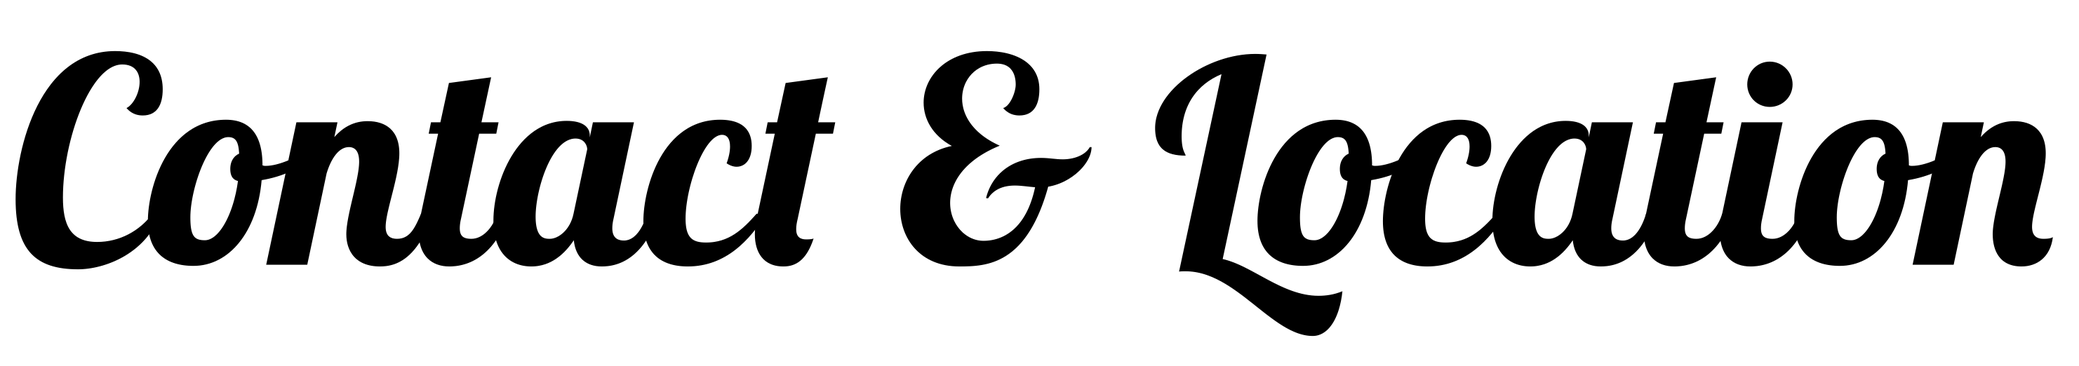
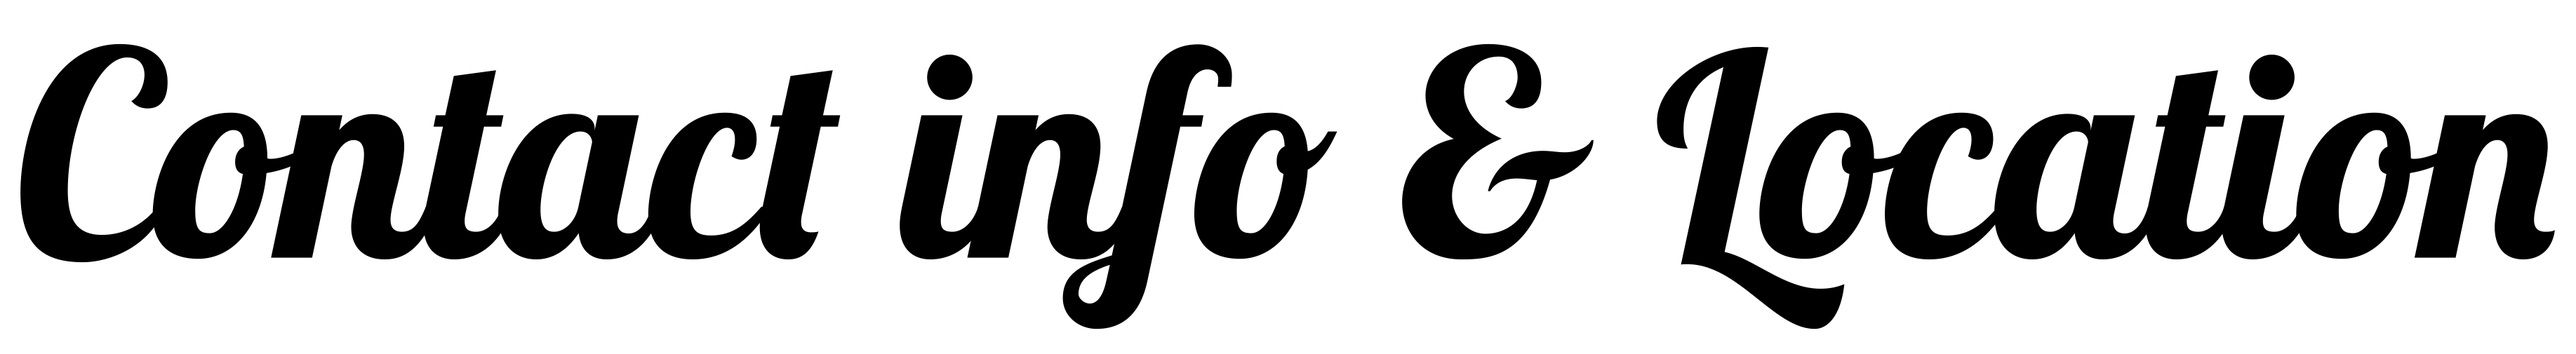
fixed bicycle animation

Changed region(s): [[0.0, 0.1188, 0.9936, 0.9208]]

diff --git a/app/assets/stylesheets/home.scss b/app/assets/stylesheets/home.scss
@@ -17,19 +17,6 @@ $d: $t / 121;
    background-size: cover;
 }
 
-@mixin shopPanelGradient {
-   /* For browsers that do not support gradients */
-   background: hsl(24, 99%, 52%);
-   /* For Safari 5.1 to 6.0 */
-   background: -webkit-linear-gradient(hsl(24, 99%, 40%), hsl(24, 99%, 46%), hsl(24, 99%, 52%));
-   /* For Opera 11.1 to 12.0 */
-   background: -o-linear-gradient(hsl(24, 99%, 40%), hsl(24, 99%, 46%), hsl(24, 99%, 52%));
-   /* For Firefox 3.6 to 15 */
-   background: -moz-linear-gradient(hsl(24, 99%, 40%), hsl(24, 99%, 46%), hsl(24, 99%, 52%));
-   /* Standard syntax */
-   background: linear-gradient(hsl(24, 99%, 40%), hsl(24, 99%, 46%), hsl(24, 99%, 52%));
-}
-
 body,
 html {
    background: black;
@@ -105,38 +92,20 @@ html {
 }
 
 
-.affix {
-   top: 0;
-   width: 100%;
-}
-
-//makes the transition smoother
-.affix+.container-fluid {
-   padding-top: 60px;
-}
-#shopPanel, #userPanel {
-   @include shopPanelGradient;
-   border: solid 1px hsl(240, 6%, 30%);
-   border-top: solid 2px orange;
-   box-shadow: 0px 8px 16px 0px rgba(0, 0, 0, 0.4), inset 0 10px 15px -8px orange;
-   li a {
-       color: white;
-   }
-   .dropdown-header {
-       color: hsl(24, 99%, 20%);
-   }
-   .divider {
-       background-color: hsl(24, 98%, 40%);
-   }
-}
 .Header {
    width: 60%;
    position: relative;
    left: 20%;
 }
-
+.locationHeader {
+  width: 30%;
+  position: relative;
+  left: 35%;
+}
 .headerContain {
    margin: 0;
+   padding: 0;
+   width: 100%;
    background-color: rgb(252, 252, 252);
 }
 
@@ -145,6 +114,7 @@ html {
    font-family: 'Buenard', serif;
    font-size: 20px;
    width: 100%;
+   padding: 0;
    text-align: center;
 
    margin-bottom: 5%;
@@ -158,6 +128,7 @@ html {
 
 .customer {
    position: relative;
+   margin: 0;
    height: 180px;
    right: 10%;
 }
@@ -213,5 +184,48 @@ html {
    padding-bottom: 50px;
    width: 100%;
    height: 500px;
+   border: 1px solid;
+}
+.addressHeader{
+  position: relative;
+  left: 40%;
+  width: 22%;
+  margin-top: 30px;
+  margin-bottom: 10px;
+}
+.contactHeader {
+  position: relative;
+  left: 40%;
+  width: 20%;
+  margin-top: 50px;
+  margin-bottom: 10px;
+}
+.address {
+  width: 80%;
+  margin: auto;
+ p{
 
+  font-size: 22px;
+  font-family: 'Signika Negative', sans-serif;
+}
+}
+#phone, #email{
+   font-size: 22px;
+   font-family: 'Signika Negative', sans-serif;
+}
+#email {
+  padding-bottom: 30px;
+}
+#line {
+  border-bottom: 1px solid;
+  width: 35%;
+  margin: auto;
+}
+.mechanicInfo{
+  width: 90%;
+  margin: auto;
+  div p {
+    font-family: 'Buenard', serif;
+    font-size: 20px;
+  }
 }

diff --git a/app/assets/javascripts/home.js b/app/assets/javascripts/home.js
@@ -8,26 +8,29 @@ $(document).on('turbolinks:load', function() {
     });
 
     $('.dropdown-toggle').removeClass('active');
-    /*logo parallax
-     *listening to a window scroll event */
-
+    /*listening to a window scroll event */
+     if (this.hash !== "" && location.pathname == "/index"
+         ||this.hash !== "" && location.pathname == "/") {
     $(window).scroll(function() {
 
         //how many pixels am i relation to the top of the page
-        var wScroll = $(this).scrollTop();
-        //landing effect on logo
+        var wScroll1 = $(this).scrollTop();
+        //max distance the bicycle should travel
+        var maxDistance = $(window).width()*0.35;
+        //restart wScroll to 0 at the start of the animation
+        var wScroll2 = wScroll1-($('.Header').offset().top - ($(window).height() / 3));
+          if (wScroll1 > $('.Header').offset().top - ($(window).height() / 3) && wScroll1 <= 790 && wScroll2<maxDistance) {
 
-          if (wScroll > $('.Header').offset().top - ($(window).height() / 3) && wScroll <= 790) {
-          console.log("hi");
           $('.cust_bicycle').css({
-              'left': '0%',
-              'transform': 'translate(' + wScroll / 3.2 + '%, 0px)'
+              //keep the bicycle next to the customer.
+              'left': ($(window).width()-1440)/30+'%',
+              'transform': 'translate(' +wScroll1/2.9 + '%, 0px)'
           });
           }
     });
-
+}
     // Add smooth scrolling to all links in navbar + footer link
-    $(".mechanicLink, .contactLink, footer a[href='#top']").on('click', function(event) {
+    $(".mechanicLink, .contactLink, .locationLink, footer a[href='#top']").on('click', function(event) {
         // Make sure this.hash has a value before overriding default behavior
 
         if (this.hash !== "" && location.pathname == "/index"

diff --git a/app/assets/stylesheets/youtube.scss b/app/assets/stylesheets/youtube.scss
@@ -1,4 +1,4 @@
-navLogo, .loginImg1, #loginHeader, input::-webkit-input-placeholder, button {
+#navLogo, .loginImg1, #loginHeader, input::-webkit-input-placeholder, button {
   font-family: 'roboto', sans-serif;
   transition: all 0.275s ease-in-out;
 }
@@ -6,16 +6,16 @@ navLogo, .loginImg1, #loginHeader, input::-webkit-input-placeholder, button {
   position: absolute;
   top: -100px;
   background-color: black;
-  z-index: -1;
-  opacity: 0.45;
+  z-index: -2;
+  //opacity: 0.45;
   width: 100%;
   height: 830px;
 }
 #ytplayer {
    position: relative;
    top: -100px;
-   z-index: -2;
-   //opacity: 0.65;
+   z-index: -1;
+   opacity: 0.65;
    width: 100%;
    height: 830px;
    padding: 0;

diff --git a/app/assets/stylesheets/repair.scss b/app/assets/stylesheets/repair.scss
@@ -80,7 +80,7 @@ $slide-number: 3;
   text-align: center;
   flex-flow: column nowrap;
   color: #fff;
-  font-family: Montserrat;
+  font-family: 'Signika Negative', sans-serif;
   text-transform: uppercase;
   -webkit-transform:translateY($content-offset);
   transform: translateY($content-offset);

diff --git a/app/assets/stylesheets/Navbar.scss b/app/assets/stylesheets/Navbar.scss
@@ -48,3 +48,13 @@
    }
 
 }
+
+.affix {
+   top: 0;
+   width: 100%;
+}
+
+//makes the transition smoother
+.affix+.container-fluid {
+   padding-top: 60px;
+}
